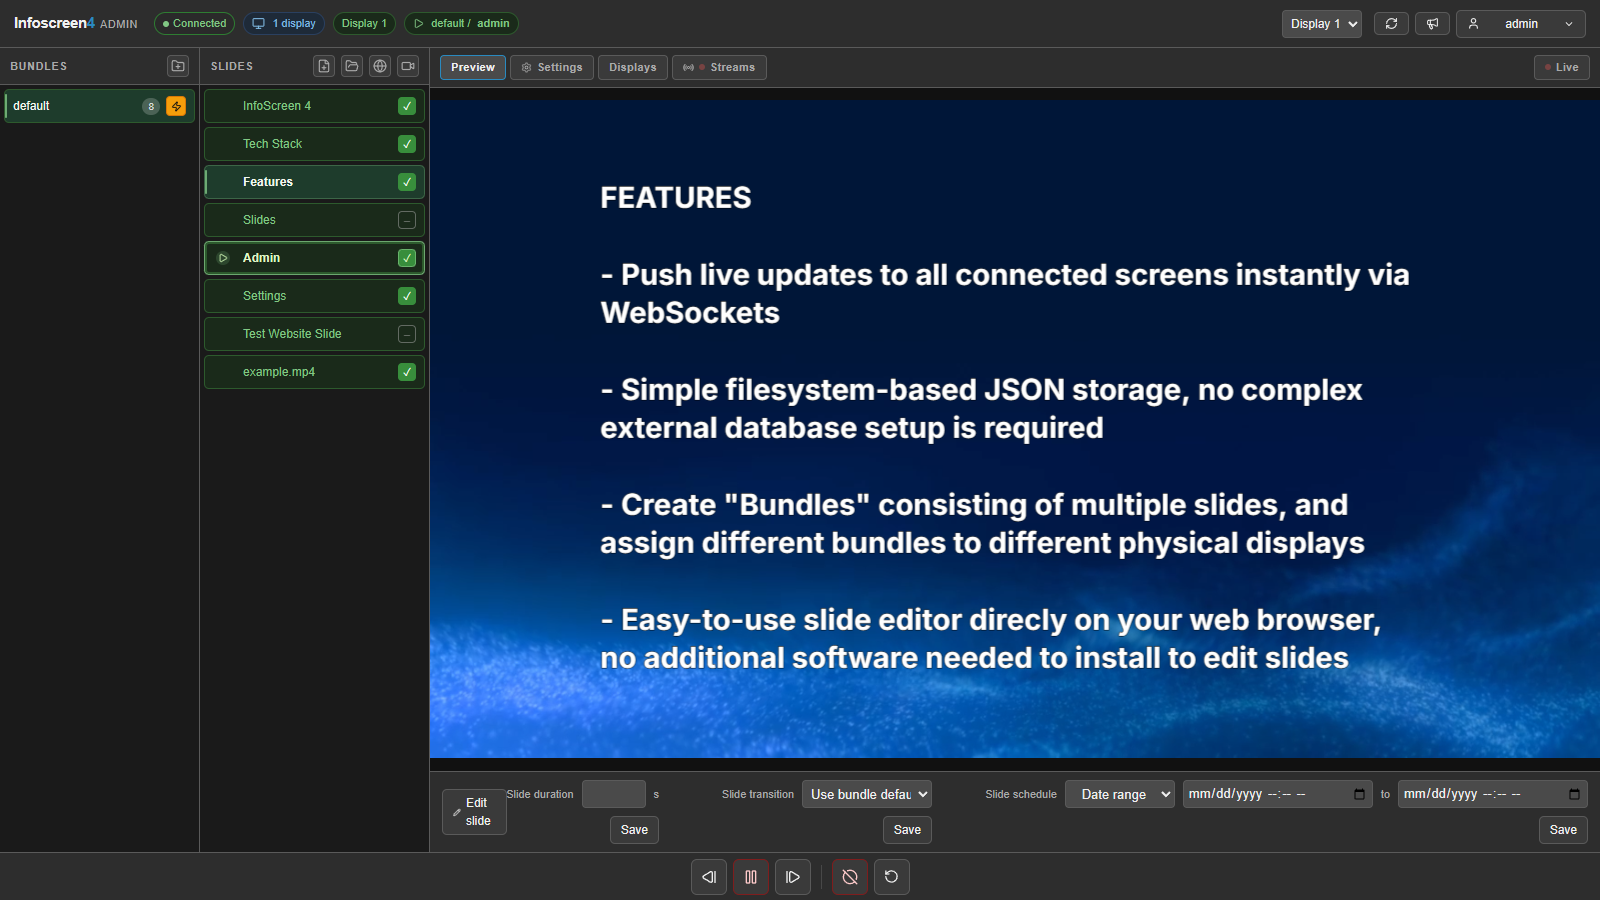
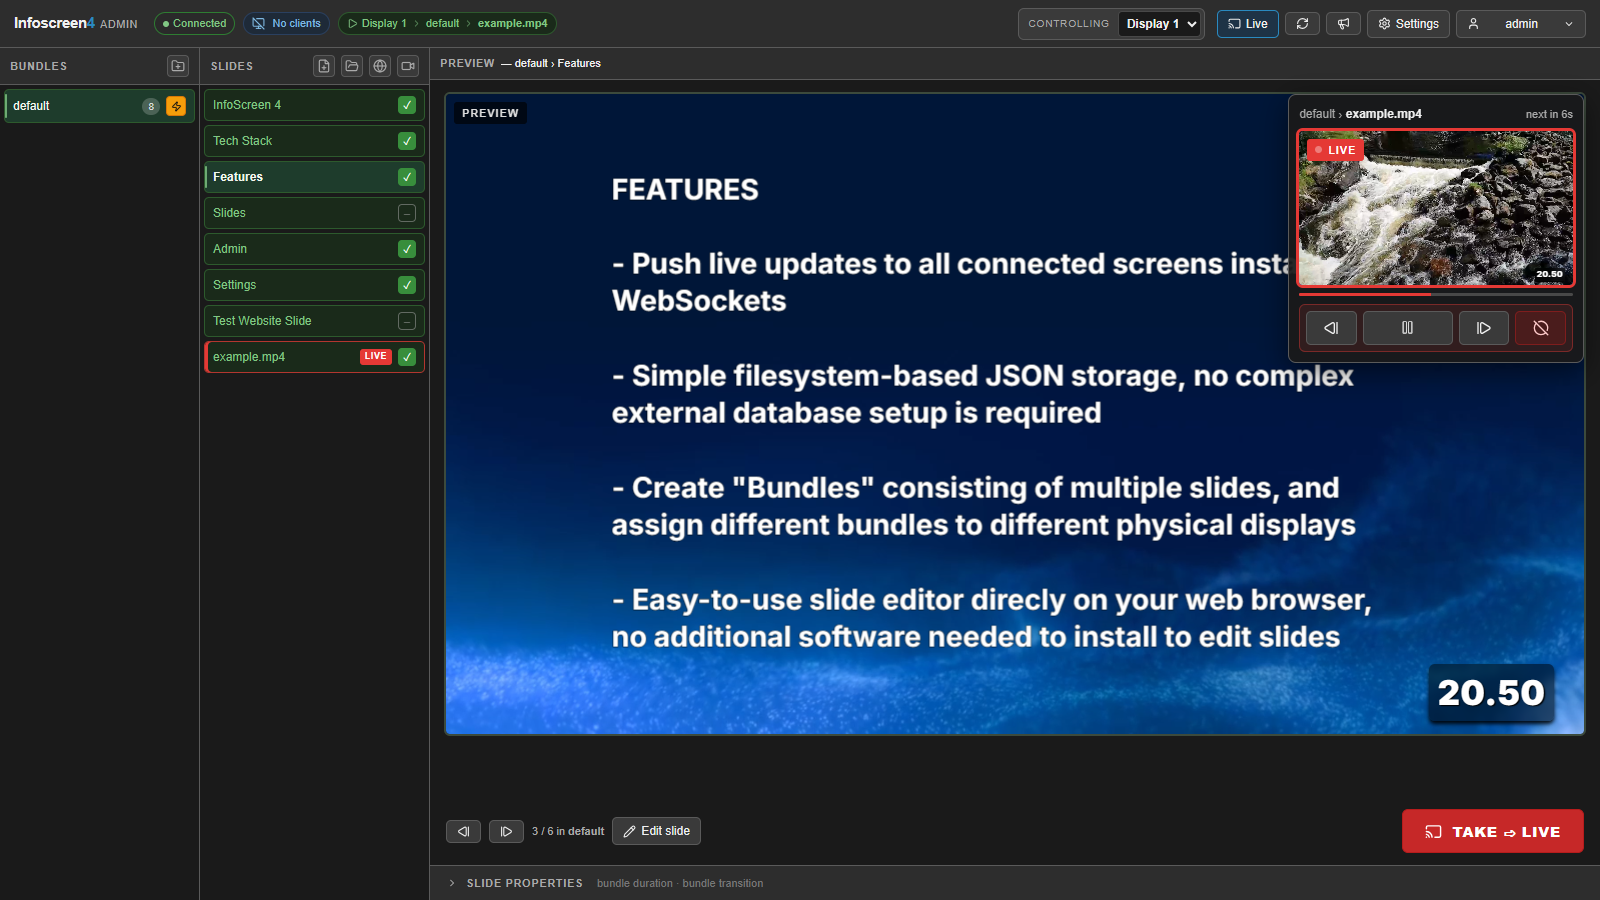
feat: update docs.

diff --git a/docs/guide/admin.md b/docs/guide/admin.md
@@ -14,19 +14,16 @@ Open `/admin` and sign in. Everything you need while the event runs is on this p
 
 ## Layout
 
-![The admin interface with a slide selected for preview]({{ '/assets/images/screenshots/admin-overview.png' | relative_url }})
+![The admin interface: preview with the live view in the top-right corner]({{ '/assets/images/screenshots/admin-overview.png' | relative_url }})
 
-- **Header**: connection status, number of connected displays, the selected display, and the bundle and slide it is showing now. On the right are the **display selector**, **Refresh**, the **announcement** button and the **user menu**.
+- **Header**: connection status, number of connected clients, and the display you control with the bundle and slide it is showing now. On the right are the **Controlling** display selector, the **Live** toggle, **Reload bundles**, the **announcement** button, **Settings** and the **user menu**.
 - **Bundles**: list of bundles. The badge shows the number of slides. The ⚡ button makes the bundle active on the selected display. Right-click a bundle to **rename**, **duplicate** or **delete** it.
-- **Slides**: the slides of the selected bundle, in playback order. Drag to reorder. The ▷ icon marks the slide on screen now.
-- **Main area** with tabs:
-  - **Preview**: the selected slide.
-  - **Settings**: [bundle settings](#bundle-settings).
-  - **Displays**: [display configuration](displays#display-ids).
-  - **Streams**: [live streams](streaming).
-  - **Live**: what the selected display is showing right now.
-- **Slide options** under the preview: **Edit slide**, plus [per-slide overrides](#per-slide-overrides).
-- **Footer**: [playback controls](#playback-control).
+- **Slides**: the slides of the selected bundle, in playback order. Drag to reorder. The slide on screen now has a red edge and a **LIVE** tag.
+- **Preview**: the selected slide, filling the main area. Under it are the preview navigation, **Edit slide** and the **Take ⇨ Live** button.
+- **Live view**: a small window in the top-right corner showing what the selected display shows right now, with its [playback controls](#playback-control).
+- **Slide properties**: a collapsible bar at the bottom with the [per-slide overrides](#per-slide-overrides).
+
+Bundle settings, display configuration, live streams and users are in the **Settings** panel, which slides in from the right. Close it with ✕ or Esc.
 
 Changes made by one admin appear immediately for all other admins who have `/admin` open.
 
@@ -38,11 +35,13 @@ Click the **New bundle** button at the top of the bundle list and enter a name.
 
 ### Make a bundle live
 
-Choose the display in the display selector, then click the ⚡ button on the bundle. The display starts playing the bundle from its first slide.
+Choose the display in the **Controlling** selector, then click the ⚡ button on the bundle. The display starts playing the bundle from its first slide.
+
+You can also start a bundle at a specific slide with [Take ⇨ Live](#take-a-slide-live).
 
 ### Bundle settings
 
-Open the **Settings** tab to configure the selected bundle.
+Click **Settings** in the header and open the **Bundle settings** tab to configure the selected bundle.
 
 ![Bundle settings]({{ '/assets/images/screenshots/bundle-settings.png' | relative_url }})
 
@@ -70,7 +69,7 @@ The buttons at the top of the slide list add:
 - **Add video slide**: a full-screen video from the video library.
 
 {: .warning }
-Many websites block embedding with `X-Frame-Options` or `Content-Security-Policy` headers. In that case the display shows a load-failure indicator instead of the page.
+Many websites block embedding with `X-Frame-Options` or `Content-Security-Policy` headers. Such a site stays blank on the display. The admin preview warns you only when nothing loads within 4 seconds, so check a new website slide in the preview before taking it live.
 
 To change an editor slide, select it and click **Edit slide** under the preview.
 
@@ -92,7 +91,9 @@ Right-click a slide for more actions:
 
 ### Per-slide overrides
 
-Under the preview you can override the bundle defaults for the selected slide. Click **Save** next to each one.
+Click **Slide properties** at the bottom of the page to override the bundle defaults for the selected slide. The panel opens on top of the preview, and the collapsed bar shows a summary of the current values. Click **Save** next to each setting.
+
+![Slide properties panel]({{ '/assets/images/screenshots/slide-properties.png' | relative_url }})
 
 - **Slide duration**: seconds for this slide. Leave it blank to use the bundle default.
 - **Slide transition**: leave it on **Use bundle default**, or pick a different transition.
@@ -117,19 +118,36 @@ A per-slide transition overrides the bundle default, which overrides the built-i
 
 ## Playback control
 
-Selecting a slide in the list only previews it. The footer controls change what the selected display shows:
+The admin separates what you are looking at from what is on screen:
+
+- **Preview** (grey frame) is only for you. Selecting a slide in the list, or stepping with the ◀ ▶ buttons under the preview, never changes the display.
+- **Live** (red frame) is what the display in the **Controlling** selector shows right now.
+
+### Take a slide live
+
+Select a slide, then click **Take ⇨ Live**. The display shows the slide and keeps cycling the bundle from there. The button is greyed out when the previewed slide is already live.
+
+If the slide belongs to a different bundle than the one the display is cycling, the admin asks you to confirm the switch first. The new bundle then becomes the display's active bundle.
+
+{: .note }
+Take ⇨ Live works only with a mouse click. It has no keyboard shortcut, and pressing Enter or Space on the button does nothing, so a stray key press can't change what is on screen.
+
+### Live view
+
+The live view in the top-right corner shows the slide on air, a countdown to the next slide, and these controls:
 
 | Button | Action |
 |:--|:--|
-| **Previous slide** / **Next slide** | Step through the bundle. |
-| **Show selected slide** (play) | Show the selected slide on the display and start cycling from it. |
-| **Pause cycling** | Stay on the current slide. |
-| **Blackout** | Clear the display until you show a slide again. |
-| **Reload bundles** | Reload the bundle and slide lists. |
+| **Previous slide** / **Next slide** | Step the display through the bundle. |
+| **Pause cycle** / **Resume cycle** | Stay on the current slide, or continue cycling from it. After a blackout, **Resume cycle** brings back the last slide. |
+| **Blackout** | Clear the display until you show a slide again. Asks for confirmation. |
 
-Use the **Live** tab to see exactly what the display shows:
+The countdown appears from the first slide change after you open the page.
 
-![Live tab]({{ '/assets/images/screenshots/live.png' | relative_url }})
+- Click **Live** in the header, or press `L`, to hide or show the live view. Your choice is remembered in the browser.
+- Click the live view to swap it with the preview, so the live picture fills the main area. Click the small window again to swap back.
+
+![Live view swapped into the main area]({{ '/assets/images/screenshots/live.png' | relative_url }})
 
 Playback runs on the server, so displays keep cycling when no admin is connected, and a display that reconnects resumes the current slide.
 
@@ -149,4 +167,4 @@ The announcement stays on top of the slides until you clear it. While an announc
 
 ## Live streams
 
-The **Streams** tab lists everyone currently broadcasting from [`/send`](streaming). Click **Show on display** to show a stream full-screen on the selected display, and **Clear** to return to the slides.
+The **Streams** tab in the **Settings** panel lists everyone currently broadcasting from [`/send`](streaming). Click **Show on display** to show a stream full-screen on the selected display, and **Clear** to return to the slides.

diff --git a/docs/guide/streaming.md b/docs/guide/streaming.md
@@ -27,11 +27,11 @@ Stream a camera or a screen from any browser to any display. Video travels peer-
 
 ![The stream sender page]({{ '/assets/images/screenshots/send.png' | relative_url }})
 
-The stream now appears in the admin's **Streams** tab.
+The stream now appears in the admin under **Settings → Streams**.
 
 ## Show a stream on a display
 
-In `/admin`, select the display, open the **Streams** tab and click **Show on display**. The stream covers the slides until you click **Clear** or the sender stops.
+In `/admin`, select the display, open **Settings → Streams** and click **Show on display**. The stream covers the slides until you click **Clear** or the sender stops.
 
 ![Live streams in the admin]({{ '/assets/images/screenshots/streams.png' | relative_url }})
 

diff --git a/docs/guide/displays.md b/docs/guide/displays.md
@@ -12,7 +12,7 @@ nav_order: 4
 
 ## Display IDs
 
-Displays are listed in `data/display.json`. Add, rename or remove them in the admin's **Displays** tab, then click **Save**.
+Displays are listed in `data/display.json`. Add, rename or remove them in the admin under **Settings → Displays**, then click **Save**.
 
 ![Display configuration]({{ '/assets/images/screenshots/display-settings.png' | relative_url }})
 

diff --git a/docs/reference/data-format.md b/docs/reference/data-format.md
@@ -99,7 +99,7 @@ Editor slides, in Fabric.js canvas JSON format. These are global: any bundle can
 |:--|:--|
 | `id` | Used in the display URL: `/display/<id>`. |
 | `name` | Name shown in the admin. |
-| `activeBundle` | Bundle the display plays. |
+| `activeBundle` | Bundle the display plays. Updated when a bundle goes on air with ⚡ or Take ⇨ Live, and restored when the server starts. |
 
 ## `users.json`
 

diff --git a/docs/guide/users.md b/docs/guide/users.md
@@ -6,7 +6,7 @@ nav_order: 6
 
 # Users and roles
 
-Manage accounts in the admin under the **user menu → Users**. Accounts are stored in `data/users.json`.
+Manage accounts in the admin under **Settings → Users**, or **user menu → Users**. Accounts are stored in `data/users.json`.
 
 ![User management]({{ '/assets/images/screenshots/users.png' | relative_url }})
 
